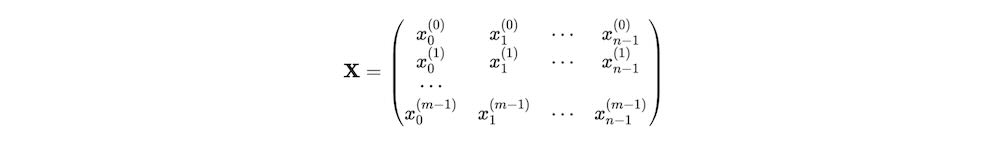
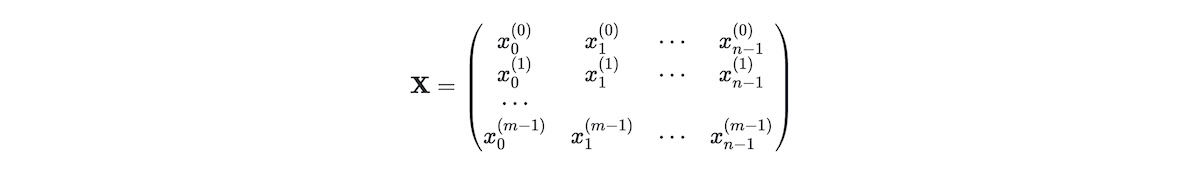
Testing markdown with LaTeX syntax.

Changed region(s): [[0.341, 0.1379, 0.527, 0.8828], [0.558, 0.1379, 0.682, 0.8828], [0.465, 0.1379, 0.527, 0.5241]]

diff --git a/Machine_Learning-Deep_Learning/Coursera-Machine_Learning_Specialization/README.md b/Machine_Learning-Deep_Learning/Coursera-Machine_Learning_Specialization/README.md
@@ -206,7 +206,14 @@ Let's think a bit about how you might interpret these parameters: if the model i
 ### Matrix X containing our examples
 Each row of the matrix represents one example. When you have $m$ training examples, and there are $n$ features, $\mathbf{X}$ is a matrix with dimensions ($m$, $n$) (m rows, n columns).
 
-![img](./assets/matX.jpg)
+$$
+\mathbf{X} = \begin{pmatrix}
+x^{(0)}_0 & x^{(0)}_1 & \cdots & x^{(0)}_{n-1} \\
+x^{(1)}_0 & x^{(1)}_1 & \cdots & x^{(1)}_{n-1} \\
+\cdots \\
+x^{(m-1)}_0 & x^{(m-1)}_1 & \cdots & x^{(m-1)}_{n-1}
+\end{pmatrix}
+$$
 
 notation:
 - $\mathbf{x}^{(i)}$ is vector containing example i. $\mathbf{x}^{(i)} = (x^{(i)}_0, x^{(i)}_1, \cdots,x^{(i)}_{n-1})$
